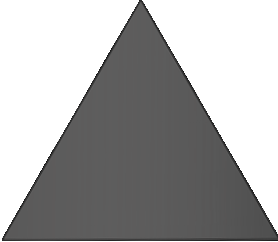
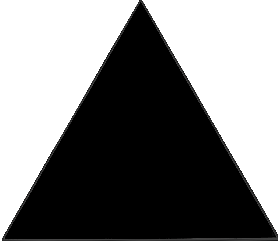
home security widget added; up and down arrows modified to black; lock and unlock buttons added; widget interface background now transparent

diff --git a/qml/KitchenApp/HomeAutomationWidget.qml b/qml/KitchenApp/HomeAutomationWidget.qml
@@ -1,0 +1,150 @@
+import QtQuick 2.0
+
+WidgetInterface {
+
+    // Timer for refreshing
+    Timer {
+        id: tempRefresh
+        repeat: true
+        running: true
+        interval: 1000
+        onTriggered: loadUI()
+    }
+
+    Component.onCompleted: loadUI()
+
+    width: parent.width
+    height: 200
+
+    Rectangle {
+        radius: 30
+        anchors.fill: parent
+        gradient: Gradient {
+            GradientStop { position: 0.0; color: "#8C8C8C" }
+            GradientStop { position: 1.0; color: "#545454" }
+        }
+        Rectangle {
+            id: climateRect
+            width: parent.width; height: parent.height / 2
+            anchors.top: parent.top
+            color: "transparent"
+            Text {
+                id: temp
+                anchors.horizontalCenter: parent.horizontalCenter
+                font.family: fontFamily
+                font.pixelSize: parent.width * .35
+            }
+            Text {
+                anchors.left: temp.right
+                font.family: fontFamily
+                font.pixelSize: parent.width * .3
+                text: "°"
+            }
+            Text {
+                id: cool
+                anchors.top: temp.bottom
+                anchors.horizontalCenter: temp.horizontalCenter
+                font.family: fontFamily
+                font.pixelSize: temp.font.pixelSize * (1/7)
+                text: "Cool"
+            }
+            Text {
+                id: heat
+                anchors.top: temp.bottom
+                anchors.right: cool.left
+                anchors.rightMargin: 10
+                font.family: fontFamily
+                font.pixelSize: temp.font.pixelSize * (1/7)
+                text: "Heat"
+            }
+            Text {
+                id: off
+                anchors.top: temp.bottom
+                anchors.left: cool.right
+                anchors.leftMargin: 10
+                font.family: fontFamily
+                font.pixelSize: temp.font.pixelSize * (1/7)
+                text: "Off"
+            }
+            // Trend image
+            Image {
+                id: trendImg
+                anchors.right: temp.left
+                anchors.rightMargin: 20
+                anchors.verticalCenter: temp.verticalCenter
+                width: parent.width * .05; height: parent.width * .05
+            }
+        }
+        // Black line
+        Rectangle {
+            id: sep
+            width:parent.width * .85; height: 1
+            color: "black"
+            anchors.horizontalCenter: parent.horizontalCenter
+            anchors.top: climateRect.bottom
+        }
+        Rectangle {
+            width: parent.width; height: parent.height / 2
+            anchors.top: sep.bottom
+            color: "transparent"
+            Rectangle {
+                id: securityStatusRect
+                width: parent.width * .55; height: parent.height * .5
+                anchors.centerIn: parent
+                radius: 10
+                color: "transparent"
+                Text {
+                    id: seucrityStatusText
+                    anchors.centerIn: parent
+                    font.family: fontFamily
+                    font.pixelSize: parent.height * .35
+                    text: "Unarmed"
+                }
+            }
+        }
+    }
+
+    // Function definitions
+
+    function loadUI() {
+        temp.text = app.getTemp()
+        setThermostat()
+        setSecurity()
+    }
+
+    function setThermostat() {
+        var thermostatState = app.getThermostatState()
+        if(thermostatState === "Heat") {
+            heat.font.bold = true
+            cool.font.bold = false
+            off.font.bold = false
+        }
+        else if(thermostatState === "Cool") {
+            cool.font.bold = true
+            off.font.bold = false
+            heat.font.bold = false
+        }
+        else if(thermostatState === "Off") {
+            off.font.bold = true
+            cool.font.bold = false
+            heat.font.bold = false
+        }
+        switch(app.getTempTrend()) {
+        case 1: trendImg.source = "qrc:/images/upArrow.png"; break;
+        case -1: trendImg.source = "qrc:/images/downArrow.png"; break;
+        default: trendImg.source = ""
+        }
+    }
+
+    function setSecurity() {
+        // If locked
+        if(app.getSecurityStatus() === true) {
+            securityStatusRect.color = "#AA2CFF14"
+            seucrityStatusText.text = "Locked"
+        }
+        else {
+            securityStatusRect.color = "#AAFF0000"
+            seucrityStatusText.text = "Unlocked"
+        }
+    }
+}

diff --git a/qml/KitchenApp/Security.qml b/qml/KitchenApp/Security.qml
@@ -4,7 +4,7 @@ Rectangle {
 
     Component.onCompleted: {
         frontDoorSensor.close()
-        backDoorSensor.open()
+        backDoorSensor.close()
         basementDoorSensor.close()
         garageDoorSensor.close()
     }
@@ -37,6 +37,10 @@ Rectangle {
             id: theLock
             width: parent.height * .75; height: parent.height * .75
             anchors.horizontalCenter: parent.horizontalCenter
+            MouseArea {
+                anchors.fill: parent
+                onClicked: { toggle() }
+            }
         }
         Rectangle {
             id: armedBackground
@@ -51,10 +55,10 @@ Rectangle {
                 font.pixelSize: 20
                 anchors.centerIn: parent
             }
-        }
-        MouseArea {
-            anchors.fill: parent
-            onClicked: { locked ? unLock() : lock() } // Toggle like a boss
+            MouseArea {
+                anchors.fill: parent
+                onClicked: { toggle() }
+            }
         }
     }
     Rectangle {
@@ -108,7 +112,7 @@ Rectangle {
         locked = false
         theLock.source = "qrc:/images/unlock.png"
         armed.text = "Unarmed"
-        armedBackground.color = "#AA2CFF14"
+        armedBackground.color = "#AAFF0000"
     }
 
     // "Lock" the house
@@ -116,6 +120,14 @@ Rectangle {
         locked = true
         theLock.source = "qrc:/images/lock.png"
         armed.text = "Armed"
-        armedBackground.color = "#AAFF0000"
+        armedBackground.color = "#AA2CFF14"
     }
+
+    function toggle() {
+        if(locked)
+            unLock()
+        else lock()
+    }
+
+    function getSecurityStatus() { return locked }
 }

diff --git a/qml/KitchenApp/Temperature.qml b/qml/KitchenApp/Temperature.qml
@@ -4,6 +4,9 @@ Rectangle {
     color: "transparent"
     border.color: "black"
     border.width: 1
+
+    property string thermostatState: "Off"
+
     Rectangle {
         id: titleRect
         anchors.horizontalCenter: parent.horizontalCenter
@@ -134,6 +137,7 @@ Rectangle {
                     onClicked: {
                         modeRect.deselectModes()
                         parent.color = "#99EEEEEE"
+                        thermostatState = "Cool"
                     }
                 }
             }
@@ -156,6 +160,7 @@ Rectangle {
                     onClicked: {
                         modeRect.deselectModes()
                         parent.color = "#99EEEEEE"
+                        thermostatState = "Heat"
                     }
                 }
             }
@@ -178,6 +183,7 @@ Rectangle {
                     onClicked: {
                         modeRect.deselectModes()
                         parent.color = "#99EEEEEE"
+                        thermostatState = "Off"
                     }
                 }
             }
@@ -186,4 +192,17 @@ Rectangle {
             }
         }
     }
+
+    // Function definitions ----------------------------------------------------
+
+    function getTrend() {
+        var current = parseInt(currentTemp.text)
+        var target = parseInt(setCurrentTemp.text)
+        if(current < target) return 1
+        else if(current > target) return -1
+        else if(current === target) return 0
+    }
+
+    function getTemp() { return currentTemp.text }
+
 }

diff --git a/qml/KitchenApp/HomeAutomation.qml b/qml/KitchenApp/HomeAutomation.qml
@@ -1,6 +1,10 @@
 import QtQuick 2.0
 
 AppInterface {
+
+    // Boom, bam, home automation widget
+    widgetSrc: "HomeAutomationWidget.qml"
+
     Component.onCompleted: {
         statusBar.setCurrentScreenTitle("Home Automation")
         security.unLock()
@@ -115,4 +119,13 @@ AppInterface {
         lightBulbRect.color = tempRect.color = securityRect.color = "transparent"
         lights.visible = temp.visible = security.visible = false;
     }
+
+    function getSecurityStatus() { return security.getSecurityStatus() }
+
+    function getTempTrend() { return temp.getTrend() }
+
+    function getThermostatState() { return temp.thermostatState }
+
+    function getTemp() { return temp.getTemp() }
+
 }

diff --git a/qml/KitchenApp/WidgetInterface.qml b/qml/KitchenApp/WidgetInterface.qml
@@ -17,7 +17,8 @@ Item {
 
     Rectangle {
         anchors.fill: parent
-        color: "#007722"
+        //color: "#007722"
+        color: "transparent"
     }
 
     MouseArea {
